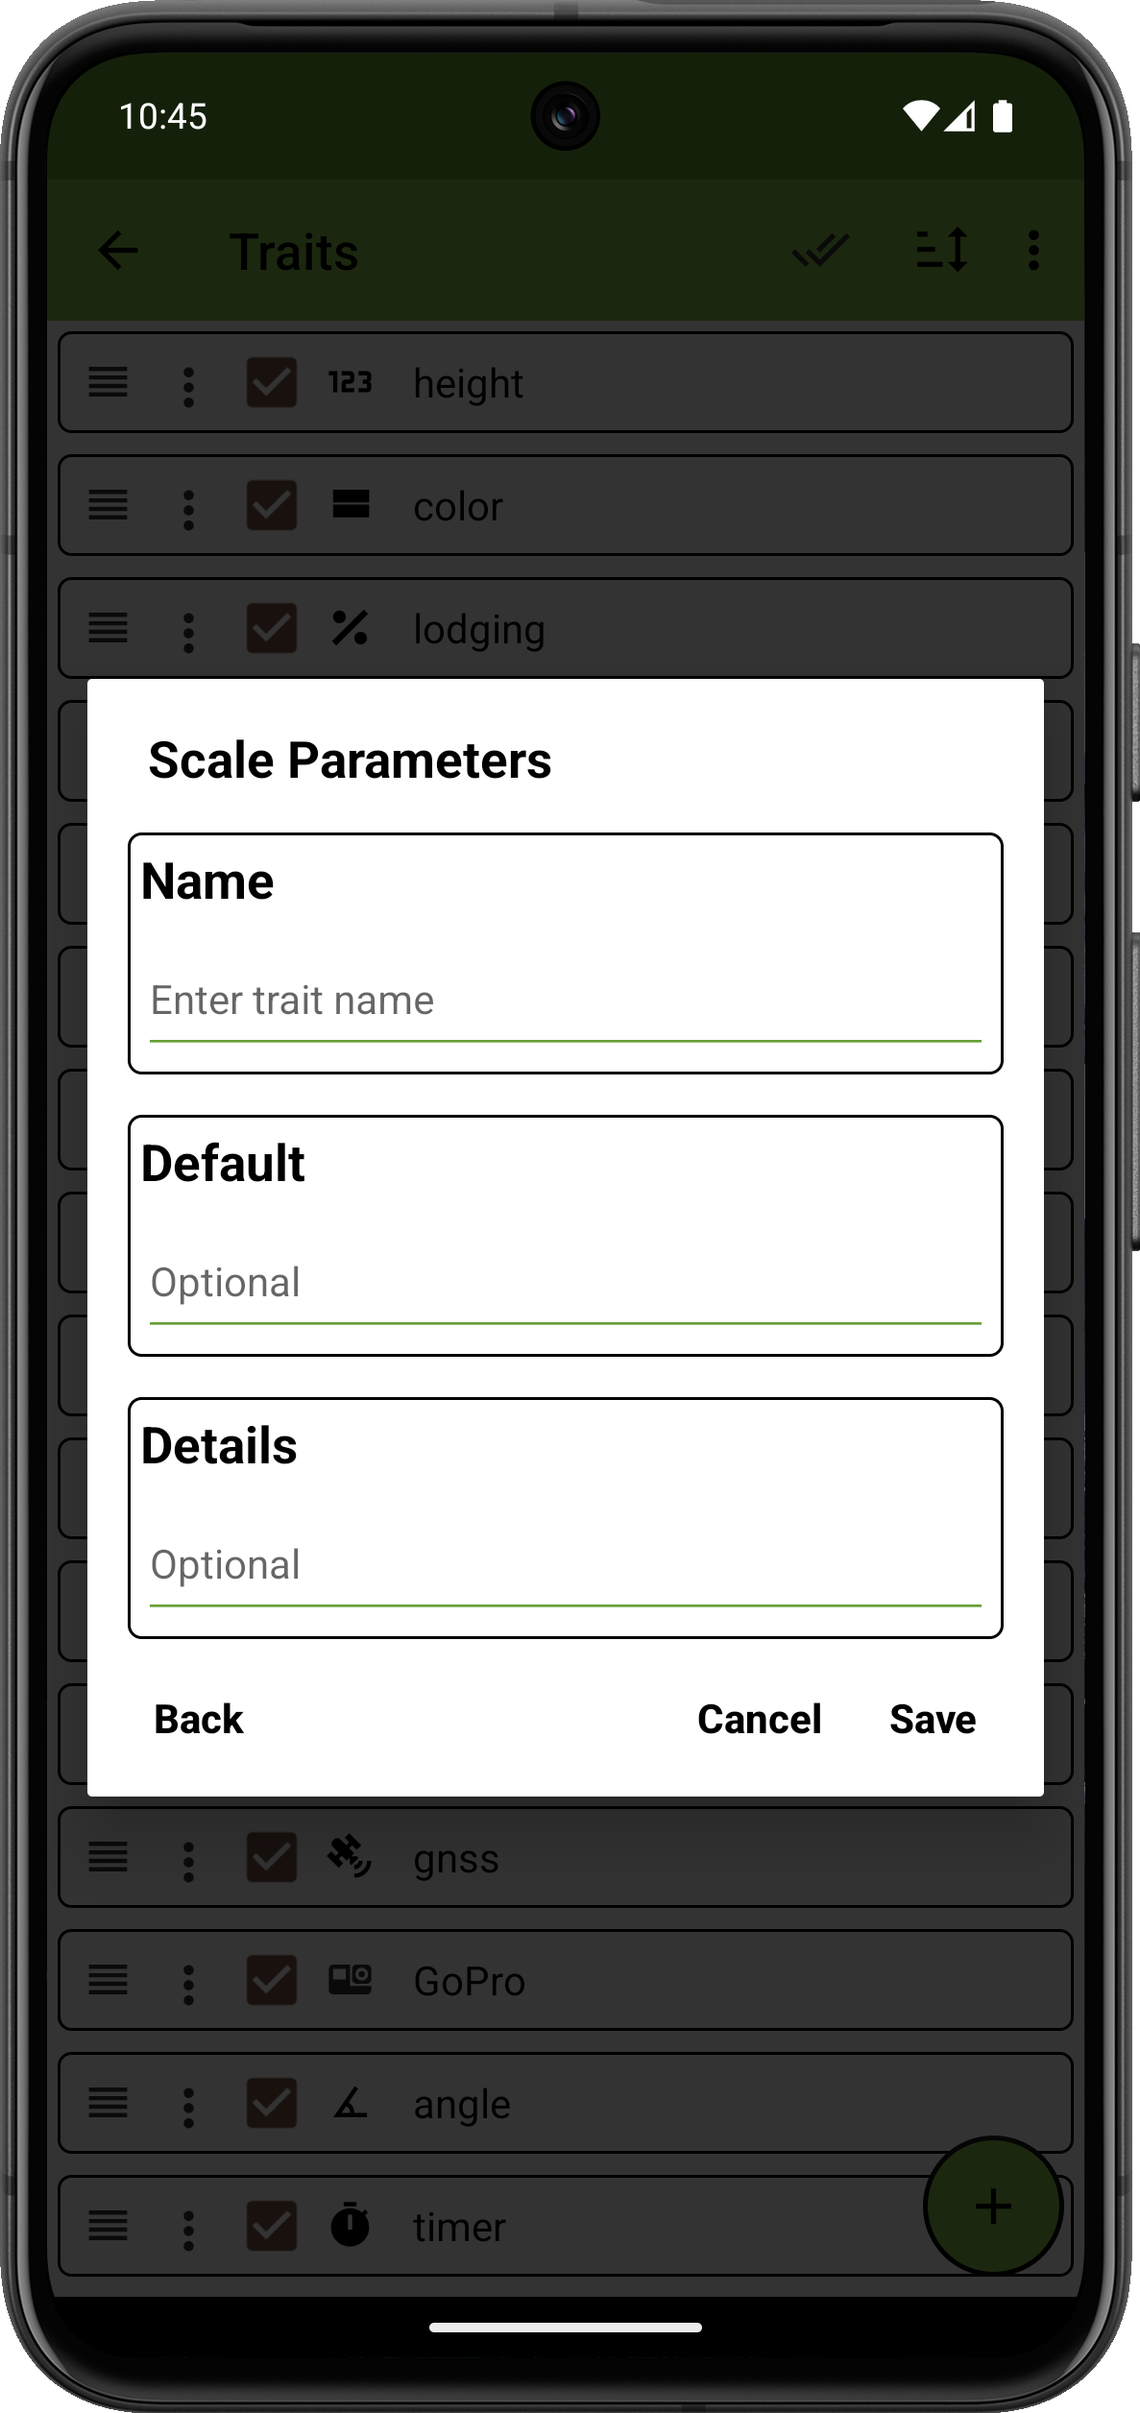
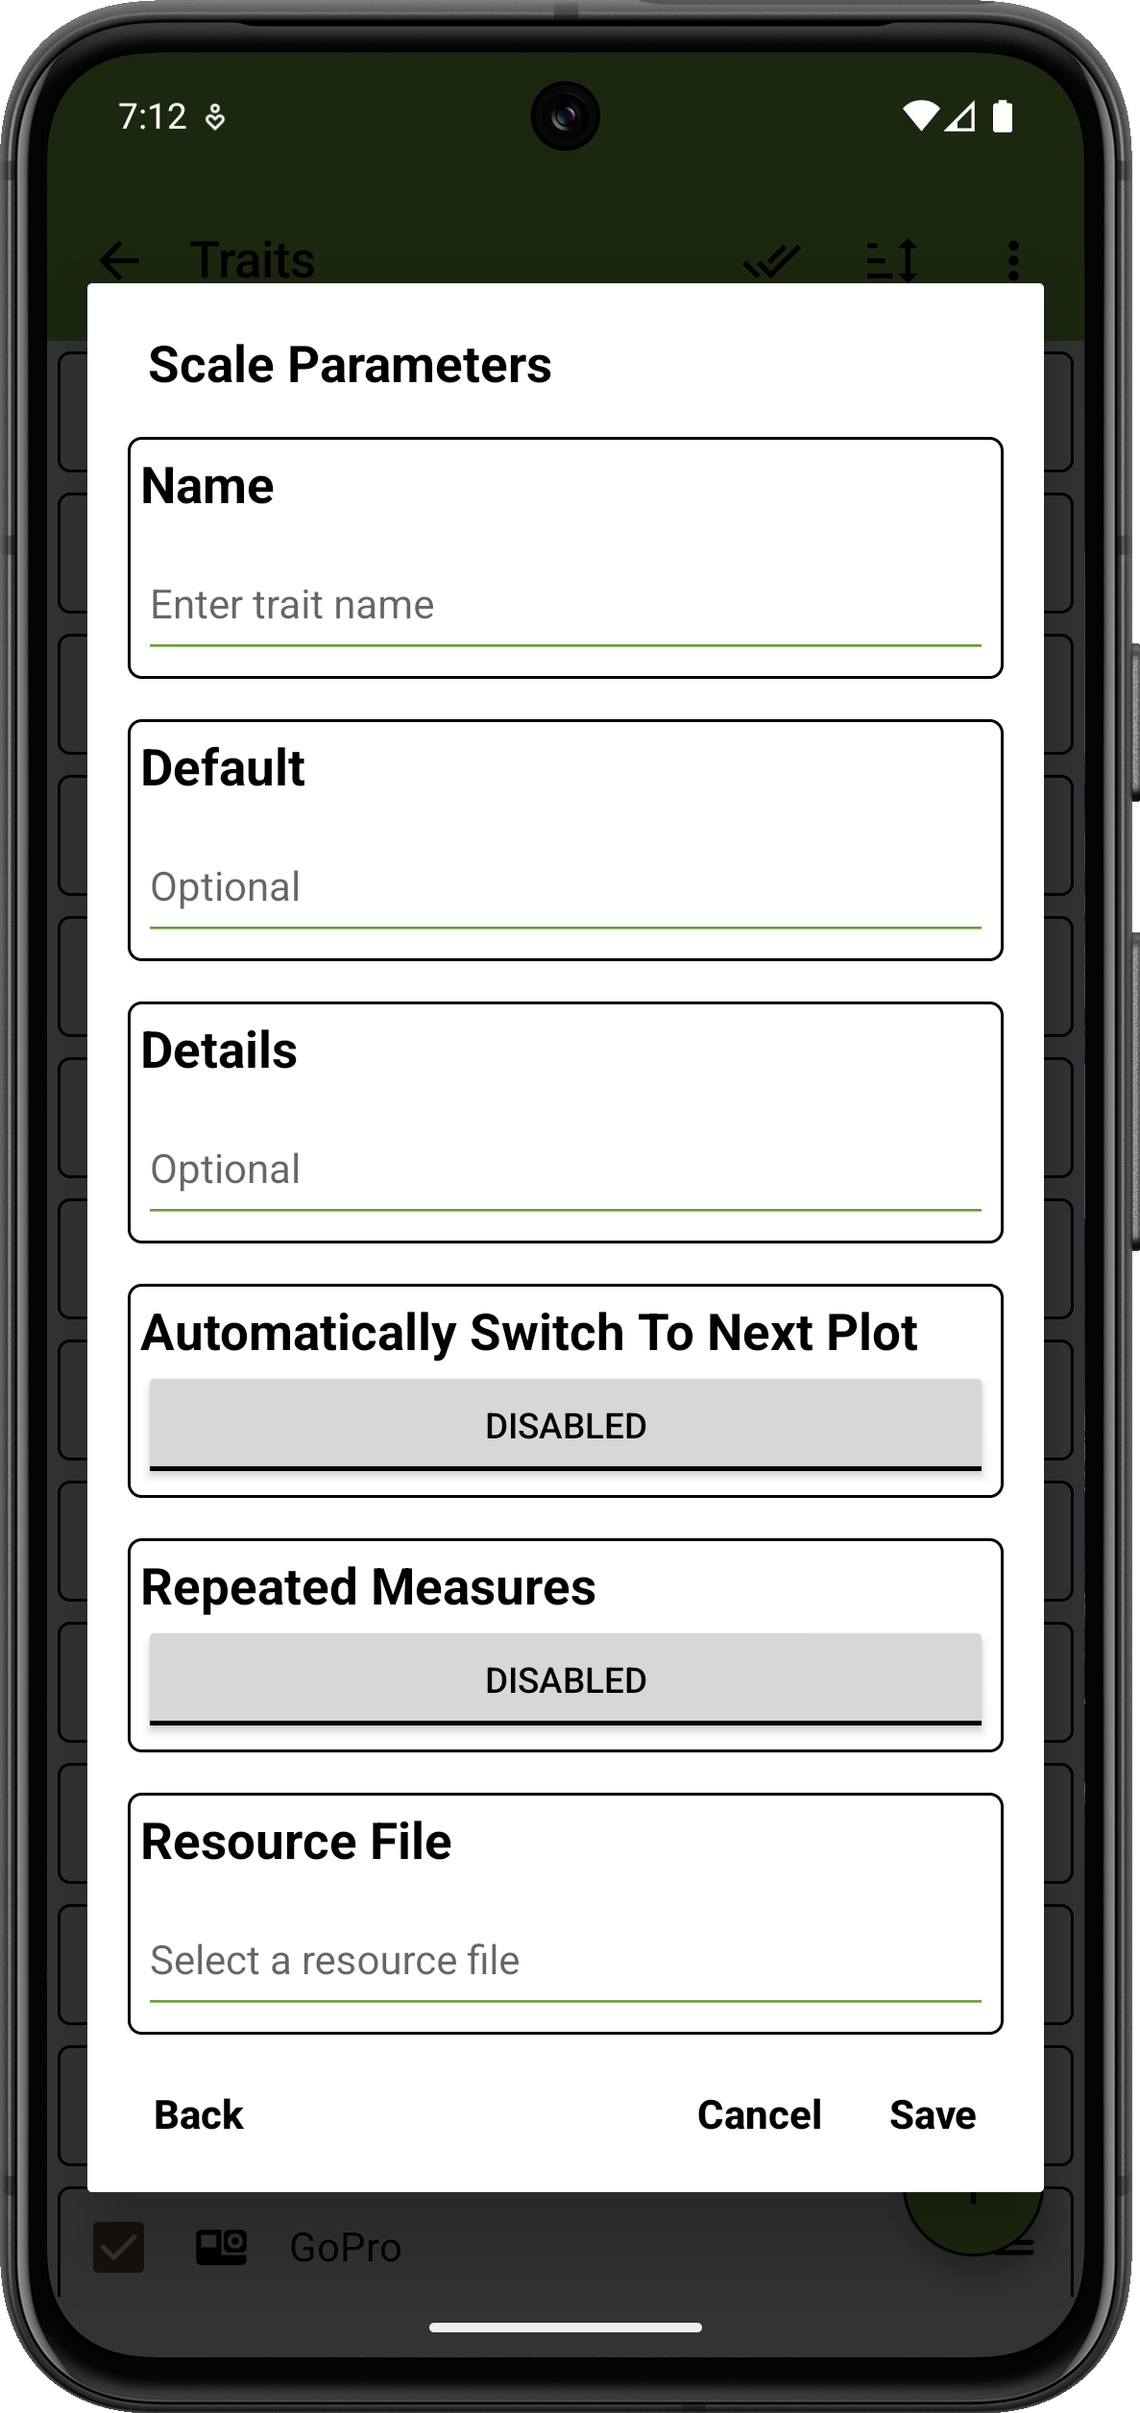
Change images for all traits with new params

diff --git a/docs/traits/trait-gnss.md b/docs/traits/trait-gnss.md
@@ -1,6 +1,6 @@
-<link rel="stylesheet" type="text/css" href="_styles/styles.css">
+<link rel="stylesheet" type="text/css" href="../_styles/styles.css">
 
-# <img class="icon-title" src="_static/icons/formats/satellite-variant.png"> GNSS Trait
+# <img class="icon-title" src="../_static/icons/formats/satellite-variant.png"> GNSS Trait
 
 ## Overview
 
@@ -8,7 +8,7 @@ The GNSS trait format is used to acquire high-precision geocoordinates from an e
 While other traits only capture phenotypic data, the GNSS trait is intended to be used to also capture entry metadata that can be used in conjunction with the <img class="icon" src="_static/icons/settings/main/map-search.png">[Geonav](geonav.md) feature to automatically navigate through the field.
 
 <figure class="image">
-  <img class="screenshot" src="_static/images/traits/formats/gnss_format_joined.png" width="700px"> 
+  <img class="screenshot" src="../_static/images/traits/formats/joined_gnss_format.png" width="700px"> 
   <figcaption class="screenshot-caption"><i>GNSS trait creation dialog and collect format</i></figcaption> 
 </figure>
 
@@ -17,14 +17,14 @@ While other traits only capture phenotypic data, the GNSS trait is intended to b
 When first navigating to a GNSS trait, the Collect screen will display a <img class="icon" src="_static/icons/formats/satellite-variant.png"> button that will list devices that can be used in conjunction with this trait.
 
 <figure class="image">
-  <img class="screenshot" src="_static/images/traits/formats/collect_gnss_select_device.png" width="325px"> 
+  <img class="screenshot" src="../_static/images/traits/formats/collect_gnss_select_device.png" width="325px"> 
   <figcaption class="screenshot-caption"><i>GNSS device select dialog</i></figcaption> 
 </figure>
 
 Once a device is selected, the screen will display values from the GNSS receiver output including latitude and longitude coordinates, current Coordinated Universal Time (UTC), the Horizontal Dilution of Precision (HDOP, a measure of the suitability of satellite positioning in the sky, ideally 1 or below), the number of available satellites, the altitude, and accuracy.
 
 <figure class="image">
-  <img class="screenshot" src="_static/images/traits/formats/collect_gnss_receiver_output.png" width="325px"> 
+  <img class="screenshot" src="../_static/images/traits/formats/collect_gnss_receiver_output.png" width="325px"> 
   <figcaption class="screenshot-caption"><i>GNSS receiver output</i></figcaption> 
 </figure>
 
@@ -32,14 +32,14 @@ Pressing <img class="icon" src="_static/icons/formats/crosshairs-gps.png"> will 
 Toggling the average option will record an average of incoming location data for 5s, 10s, or manually (whereby all manually collected location points are averaged to create a representative value).
 
 <figure class="image">
-  <img class="screenshot" src="_static/images/traits/formats/collect_gnss_average_options.png" width="325px"> 
+  <img class="screenshot" src="../_static/images/traits/formats/collect_gnss_average_options.png" width="325px"> 
   <figcaption class="screenshot-caption"><i>GNSS average options</i></figcaption> 
 </figure>
 
 Attempting to overwrite saved coordinates will display a warning dialog to confirm that existing coordinates will be lost.
 
 <figure class="image">
-  <img class="screenshot" src="_static/images/traits/formats/collect_gnss_update_warning.png" width="325px"> 
+  <img class="screenshot" src="../_static/images/traits/formats/collect_gnss_update_warning.png" width="325px"> 
   <figcaption class="screenshot-caption"><i>GNSS update warning</i></figcaption> 
 </figure>
 

diff --git a/docs/traits/trait-photo.md b/docs/traits/trait-photo.md
@@ -1,6 +1,6 @@
 <link rel="stylesheet" type="text/css" href="_styles/styles.css">
 
-# <img class="icon-title" src="_static/icons/formats/camera.png"> Photo Trait
+# <img class="icon-title" src="../_static/icons/formats/camera.png"> Photo Trait
 
 ## Overview
 
@@ -10,14 +10,14 @@ Field Book allows photos to be captured from different camera sources including 
 ## Creation
 
 <figure class="image">
-  <img class="screenshot" src="_static/images/traits/formats/create_photo_joined.png" width="700px"> 
+  <img class="screenshot" src="../_static/images/traits/formats/joined_create_photo_format.png" width="700px"> 
   <figcaption class="screenshot-caption"><i>Photo trait creation (system camera)</i></figcaption> 
 </figure>
 
 ## Collect layout
 
 <figure class="image">
-  <img class="screenshot" src="_static/images/traits/formats/collect_photo_joined.png" width="700px"> 
+  <img class="screenshot" src="../_static/images/traits/formats/collect_photo_joined.png" width="700px"> 
   <figcaption class="screenshot-caption"><i>Photo trait collection interface and settings (system camera)</i></figcaption> 
 </figure>
 
@@ -28,7 +28,7 @@ If crop region was set to true when creating the trait then the "Set Crop Region
 Press it to take a photo and adjust the crop dimensions that will automatically be applied to captured photos. 
 
 <figure class="image">
-  <img class="screenshot" src="_static/images/traits/formats/crop_region_joined.png" width="1100px"> 
+  <img class="screenshot" src="../_static/images/traits/formats/crop_region_joined.png" width="1100px"> 
   <figcaption class="screenshot-caption"><i>Setting a photo trait's crop region</i></figcaption> 
 </figure>
 
@@ -44,7 +44,7 @@ Capturing photos using external cameras requires initial connection setup using 
 The layout and process of capturing images from external cameras is the same as with the the system camera.
 
 <figure class="image">
-  <img class="screenshot" src="_static/images/traits/formats/collect_gopro_framed.png" width="350px"> 
+  <img class="screenshot" src="../_static/images/traits/formats/collect_gopro_framed.png" width="350px"> 
   <figcaption class="screenshot-caption"><i>Photo trait collection interface (GoPro)</i></figcaption> 
 </figure>
 

diff --git a/docs/traits/trait-stopwatch.md b/docs/traits/trait-stopwatch.md
@@ -1,20 +1,20 @@
 <link rel="stylesheet" type="text/css" href="_styles/styles.css">
 
-# <img class="icon-title" src="_static/icons/formats/stopwatch.png"> Stopwatch Trait
+# <img class="icon-title" src="../_static/icons/formats/stopwatch.png"> Stopwatch Trait
 
 The stopwatch trait format is used to measure elapsed time for observations.
 It is created with a `name` and optional `details`.
 Details text is displayed under the trait name on the Collect screen.
 
 On the Collect screen, press the <img class="icon" src="_static/icons/formats/play.png"> start button to start the timer.
-Press the <img class="icon" src="_static/icons/formats/pause.png"> pause button to pause the timer.
-Press the <img class="icon" src="_static/icons/formats/reset.png"> reset button to reset the timer to zero.
-Press the <img class="icon" src="_static/icons/formats/save.png"> save button to save the current elapsed time.
+Press the <img class="icon" src="../_static/icons/formats/pause.png"> pause button to pause the timer.
+Press the <img class="icon" src="../_static/icons/formats/reset.png"> reset button to reset the timer to zero.
+Press the <img class="icon" src="../_static/icons/formats/save.png"> save button to save the current elapsed time.
 
 The timer displays elapsed time in HH:MM:SS.mmm format (hours:minutes:seconds.milliseconds).
 Saved time values are stored as text in the same format and can be viewed in data exports.
 The timer maintains its state when paused or saved, allowing you to resume timing from where you left off.
 <figure class="image">
-  <img class="screenshot" src="_static/images/traits/formats/stopwatch_format_joined.png" width="700px"> 
+  <img class="screenshot" src="../_static/images/traits/formats/joined_stopwatch_format.png" width="700px"> 
   <figcaption class="screenshot-caption"><i>Stopwatch trait creation dialog and collect format</i></figcaption> 
 </figure>

diff --git a/docs/traits.md b/docs/traits.md
@@ -9,7 +9,7 @@ Each trait layout is optimized to collect a specific data type.
 Traits can be created and managed in the Traits screen.
 
 <figure class="image">
-  <img class="screenshot" src="_static/images/traits/traits_framed.png" width="350px"> 
+  <img class="screenshot" src="_static/images/traits/traits_screen.png" width="350px"> 
   <figcaption class="screenshot-caption"><i>The Traits screen layout with sample data loaded</i></figcaption> 
 </figure>
 
@@ -21,7 +21,7 @@ Each trait has a `format`, a trait `name`, optional `details`, and format-depend
 Trait names must be unique.
 
 <figure class="image">
-  <img class="screenshot" src="_static/images/traits/traits_create_joined.png" width="700px"> 
+  <img class="screenshot" src="_static/images/traits/joined_traits_create.png" width="700px"> 
   <figcaption class="screenshot-caption"><i>Creation of a <a href="#traits/trait-numeric">Numeric</a> trait</i></figcaption> 
 </figure>
 
@@ -50,7 +50,7 @@ Actions that apply to all traits can be initiated from the top toolbar.
 - Select **Import/Export** from the menu to load new traits into Field Book or to export the current traits to a file.
 
 <figure class="image">
-  <img class="screenshot" src="_static/images/traits/traits_menu_framed.png" width="350px"> 
+  <img class="screenshot" src="_static/images/traits/traits_screen_menu.png" width="350px"> 
   <figcaption class="screenshot-caption"><i>All traits mangement menu</i></figcaption> 
 </figure>
 

diff --git a/docs/traits/trait-location.md b/docs/traits/trait-location.md
@@ -1,6 +1,6 @@
 <link rel="stylesheet" type="text/css" href="_styles/styles.css">
 
-# <img class="icon-title" src="_static/icons/formats/crosshairs-gps.png"> Location Trait
+# <img class="icon-title" src="../_static/icons/formats/crosshairs-gps.png"> Location Trait
 
 The location trait is used to record the GPS coordinates of the device.
 It is created with a trait `name` and optional `details`.
@@ -10,6 +10,6 @@ On the Collect screen, pressing the <img class="icon" src="_static/icons/formats
 If the device is connected to an external location source, the coordinates from this source will be used instead of the device's internal GPS.
 
 <figure class="image">
-  <img class="screenshot" src="_static/images/traits/formats/location_format_joined.png" width="700px"> 
+  <img class="screenshot" src="_static/images/traits/formats/joined_location_format.png" width="700px"> 
   <figcaption class="screenshot-caption"><i>Location trait creation dialog and collect format</i></figcaption> 
 </figure>

diff --git a/docs/traits/trait-disease.md b/docs/traits/trait-disease.md
@@ -1,6 +1,6 @@
 <link rel="stylesheet" type="text/css" href="_styles/styles.css">
 
-# <img class="icon-title" src="_static/icons/formats/bug.png"> Disease Rating Trait
+# <img class="icon-title" src="../_static/icons/formats/bug.png"> Disease Rating Trait
 
 The disease rating trait format is used for collecting ratings of both disease incidence and severity.
 It is created with a trait `name` and optional `details`.
@@ -12,6 +12,6 @@ For each measurement, only a single incidence can be recorded while severity typ
 The `/` button allows varying incidence rates to be recorded (e.g., heterogenous response within a plot).
 
 <figure class="image">
-  <img class="screenshot" src="_static/images/traits/formats/disease_format_joined.png" width="700px"> 
+  <img class="screenshot" src="../_static/images/traits/formats/joined_disease_rating_format.png" width="700px"> 
   <figcaption class="screenshot-caption"><i>Disease trait creation dialog and collect format</i></figcaption> 
 </figure>

diff --git a/docs/traits/trait-counter.md b/docs/traits/trait-counter.md
@@ -1,6 +1,6 @@
 <link rel="stylesheet" type="text/css" href="_styles/styles.css">
 
-# <img class="icon-title" src="_static/icons/formats/numeric-positive.png"> Counter Trait
+# <img class="icon-title" src="../_static/icons/formats/numeric-positive.png"> Counter Trait
 
 The counter trait format is used to count numeric integer data, starting from zero.
 It is created with a trait `name` and optional `details`.
@@ -9,6 +9,6 @@ Details text is displayed under the trait name on the Collect screen.
 On the Collect screen, the counter starts at zero and can be incremented or decremented via the **+1** and **-1** buttons.
 
 <figure class="image">
-  <img class="screenshot" src="_static/images/traits/formats/counter_format_joined.png" width="700px"> 
+  <img class="screenshot" src="../_static/images/traits/formats/joined_counter_format.png" width="700px"> 
   <figcaption class="screenshot-caption"><i>Counter trait creation dialog and collect format</i></figcaption> 
 </figure>

diff --git a/docs/traits/trait-percent.md b/docs/traits/trait-percent.md
@@ -1,6 +1,6 @@
 <link rel="stylesheet" type="text/css" href="_styles/styles.css">
 
-# <img class="icon-title" src="_static/icons/formats/percent.png"> Percent Trait
+# <img class="icon-title" src="../_static/icons/formats/percent.png"> Percent Trait
 
 The percent trait format is used to collect percentage-based phenotypes with customizable `minimum` and `maximum` values.
 Details text is displayed under the trait name on the Collect screen.
@@ -8,6 +8,6 @@ Details text is displayed under the trait name on the Collect screen.
 On the Collect screen, percent values are recorded by adjusting the percent slider.
 
 <figure class="image">
-  <img class="screenshot" src="_static/images/traits/formats/percent_format_joined.png" width="700px"> 
+  <img class="screenshot" src="_static/images/traits/formats/joined_percent_format.png" width="700px"> 
   <figcaption class="screenshot-caption"><i>Percent trait creation dialog and collect format</i></figcaption> 
 </figure>

diff --git a/docs/traits/trait-categorical.md b/docs/traits/trait-categorical.md
@@ -1,6 +1,6 @@
 <link rel="stylesheet" type="text/css" href="_styles/styles.css">
 
-# <img class="icon-title" src="_static/icons/formats/view-agenda.png"> Categorical Trait
+# <img class="icon-title" src="../_static/icons/formats/view-agenda.png"> Categorical Trait
 
 The categorical trait format is used when trait values fall into a set of discrete categories.
 Categories are individually added in the `Categories` section of the creation dialog.
@@ -10,6 +10,6 @@ Defined categories are displayed as buttons on the Collect screen.
 A single category can be selected for each entry.
 
 <figure class="image">
-  <img class="screenshot" src="_static/images/traits/formats/categorical_format_joined.png" width="700px"> 
+  <img class="screenshot" src="../_static/images/traits/formats/joined_categorical_format.png" width="700px"> 
   <figcaption class="screenshot-caption"><i>Categorical trait creation dialog and collect format</i></figcaption> 
 </figure>

diff --git a/docs/traits/trait-text.md b/docs/traits/trait-text.md
@@ -1,6 +1,6 @@
 <link rel="stylesheet" type="text/css" href="_styles/styles.css">
 
-# <img class="icon-title" src="_static/icons/formats/format-letter-matches.png"> Text Trait
+# <img class="icon-title" src="../_static/icons/formats/format-letter-matches.png"> Text Trait
 
 The text trait format is used to record open-ended text.
 It is created with a trait `name`, optional `default value`, and optional `details`.
@@ -9,6 +9,6 @@ Details text is displayed under the trait name on the Collect screen.
 On the Collect screen, text can be typed or dictated using the system keyboard.
 
 <figure class="image">
-  <img class="screenshot" src="_static/images/traits/formats/text_format_joined.png" width="700px"> 
+  <img class="screenshot" src="../_static/images/traits/formats/joined_text_format.png" width="700px"> 
   <figcaption class="screenshot-caption"><i>Text trait creation dialog and collect format</i></figcaption> 
 </figure>

diff --git a/docs/traits/trait-zebra.md b/docs/traits/trait-zebra.md
@@ -1,6 +1,6 @@
 <link rel="stylesheet" type="text/css" href="_styles/styles.css">
 
-# <img class="icon-title" src="_static/icons/formats/printer.png"> Zebra Label Print Trait
+# <img class="icon-title" src="../_static/icons/formats/printer.png"> Zebra Label Print Trait
 
 ## Overview
 
@@ -14,7 +14,7 @@ Label size, barcode, data, and number of copies are selected and saved as defaul
 Pressing the print button will print the desired number of labels, each containing a barcode and ID for the specific entry along with any additional selected data.
 
 <figure class="image">
-  <img class="screenshot" src="_static/images/traits/formats/zebra_format_joined.png" width="700px"> 
+  <img class="screenshot" src="../_static/images/traits/formats/joined_zebra_label_print_format.png" width="700px"> 
   <figcaption class="screenshot-caption"><i>Zebra Label Print trait creation dialog and collect format</i></figcaption> 
 </figure>
 

diff --git a/docs/traits/trait-date.md b/docs/traits/trait-date.md
@@ -1,6 +1,6 @@
 <link rel="stylesheet" type="text/css" href="_styles/styles.css">
 
-# <img class="icon-title" src="_static/icons/formats/calendar-range.png"> Date Trait
+# <img class="icon-title" src="../_static/icons/formats/calendar-range.png"> Date Trait
 
 The date trait format is used to record dates.
 Details text is displayed under the trait name on the Collect screen.
@@ -9,6 +9,6 @@ On the Collect screen, the current date is displayed by default and can be incre
 The calendar button will open a date picker to select a specific date.
 
 <figure class="image">
-  <img class="screenshot" src="_static/images/traits/formats/date_format_joined.png" width="1100px"> 
+  <img class="screenshot" src="../_static/images/traits/formats/joined_date_format.png" width="1100px"> 
   <figcaption class="screenshot-caption"><i>Date trait creation dialog, collect format, and date picker</i></figcaption> 
 </figure>
